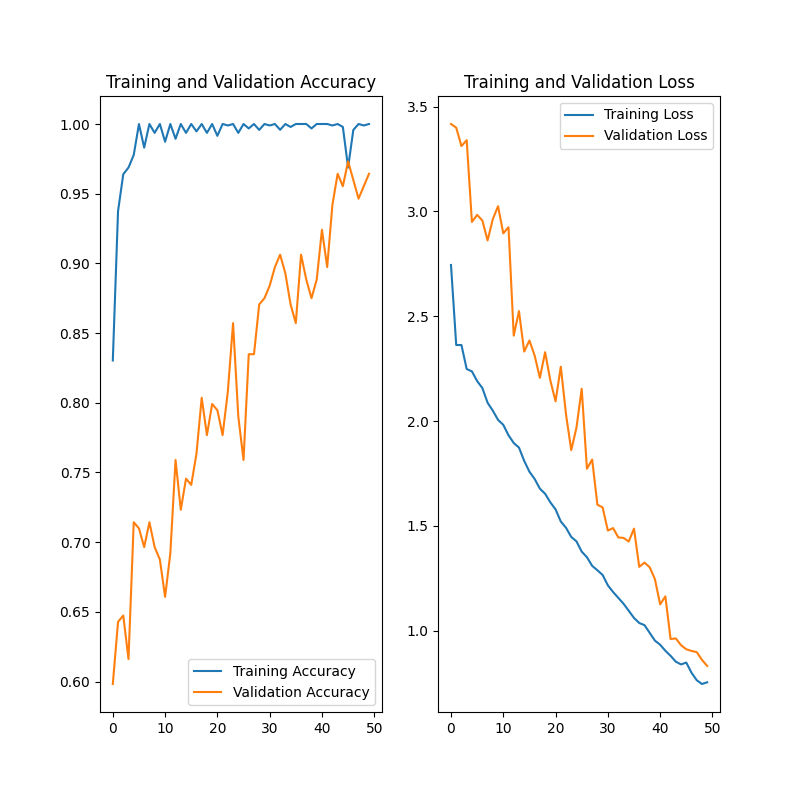
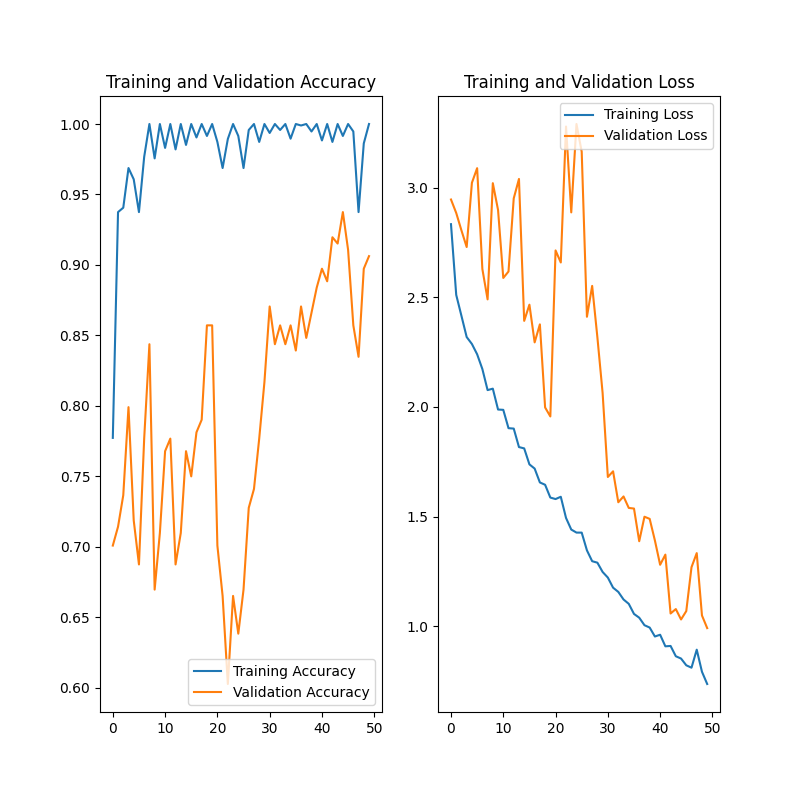
Mejora robustez: Recorte de caras en login, Oclusión en training, JSON persistente

diff --git a/backend/app/main.py b/backend/app/main.py
@@ -5,6 +5,7 @@ import numpy as np
 import cv2
 import tensorflow as tf
 import os
+import json
 
 app = FastAPI()
 
@@ -17,8 +18,11 @@ app.add_middleware(
 )
 
 MODEL_PATH = "/app/modules/models/face_recognition_model.h5"
+CLASSES_PATH = "/app/modules/models/class_indices.json"
+
 model = None
 face_cascade = None
+profile_cascade = None
 
 @app.on_event("startup")
 async def load_resources():
@@ -52,129 +56,144 @@ def predecir_imagen(img):
     class_index = np.argmax(prediction)
     confidence = float(np.max(prediction))
     
-    # Intentar cargar índices dinámicos
-    import json
-    CLASSES_PATH = "/app/modules/models/class_indices.json"
-    classes = []
+    # Valores por defecto
+    nombre_detectado = "Desconocido"
+    umbral_personalizado = 0.80 # Fallback por defecto
     
     if os.path.exists(CLASSES_PATH):
         try:
             with open(CLASSES_PATH, 'r') as f:
-                indices = json.load(f)
-                # indices es {'Alex': 0, 'Oscar': 1, ...} -> invertir a [0: 'Alex', ...]
-                classes_dict = {v: k for k, v in indices.items()}
-                classes = [classes_dict[i] for i in range(len(classes_dict))]
-        except Exception as e:
-            print(f"Error cargando indices: {e}")
-            classes = ["Alex", "Oscar", "Desconocido"]
-    else:
-        classes = ["Alex", "Oscar", "Desconocido"]
-    
-    if not classes:
-         classes = ["Alex", "Oscar", "Desconocido"]
+                config_indices = json.load(f)
+                
+            # El JSON ahora es: {"0": {"name": "Alex", "threshold": 0.70}, ...}
+            key = str(class_index)
+            if key in config_indices:
+                data = config_indices[key]
+                nombre_detectado = data.get("name", "Desconocido")
+                umbral_personalizado = data.get("threshold", 0.80)
+            else:
+                # Fallback para formato antiguo o indices rotos
+                nombre_detectado = "Desconocido"
 
-    # 0=Alex, 1=Oscar, 2=Unknown (Por defecto)
+        except Exception as e:
+            print(f"Error cargando indices json: {e}")
+            nombre_detectado = "Desconocido"
     
-    nombre_detectado = classes[class_index]
+    # 0=Alex, 1=Oscar, 2=Unknown
     
     # Lógica de seguridad estricta:
-    # 1. Si el modelo dice explícitamente "Desconocido" -> Es Desconocido.
-    # 2. Si la confianza es menor a 0.93 (93%) -> Es Desconocido.
-    # 3. Verificamos el margen con la segunda mejor opción para evitar ambigüedad.
-    
     sorted_prediction = np.sort(prediction[0])
     top_score = sorted_prediction[-1]
     second_score = sorted_prediction[-2]
     margin = top_score - second_score
 
-    # Umbrales
-    # Umbrales Estrictos Actualizados
-    # Umbrales Estrictos (Ajustados para usabilidad)
-    # Umbrales (Ajustados para permitir acceso con ~80%)
-    UMBRAL_CONFIANZA = 0.75  
     UMBRAL_MARGEN = 0.15
 
-    if nombre_detectado == "Desconocido":
+    if nombre_detectado == "Unknown" or nombre_detectado == "Desconocido":
         return "Desconocido", confidence
     
-    # Verificación estricta
-    if confidence >= UMBRAL_CONFIANZA and margin >= UMBRAL_MARGEN:
+    # Verificación estricta con UMBRAL DINÁMICO
+    if confidence >= umbral_personalizado and margin >= UMBRAL_MARGEN:
         return nombre_detectado, confidence
     else:
-        # Si no cumple los requisitos estrictos, se marca como Desconocido
         return "Desconocido", confidence
+
+def detect_faces_multiscale(frame):
+    """
+    Función auxiliar para detectar caras usando cascadas múltiples (Frontal + Perfil).
+    Devuelve una lista de recuadros [x, y, w, h] sin solapamientos.
+    """
+    if face_cascade is None or profile_cascade is None:
+        return []
+
+    gray = cv2.cvtColor(frame, cv2.COLOR_BGR2GRAY)
+
+    # Filtros visuales para mejorar detección
+    gray = cv2.GaussianBlur(gray, (5, 5), 0)
+    clahe = cv2.createCLAHE(clipLimit=2.0, tileGridSize=(8,8))
+    gray = clahe.apply(gray)
+
+    # Parametros de detección
+    scale_factor = 1.1
+    min_neighbors = 8 
+    min_size = (60, 60)
+
+    # 1. Frontal
+    faces_frontal = face_cascade.detectMultiScale(gray, scale_factor, min_neighbors, minSize=min_size)
+    
+    # 2. Perfil Izquierdo
+    faces_profile = profile_cascade.detectMultiScale(gray, scale_factor, min_neighbors, minSize=min_size)
+    
+    # 3. Perfil Derecho (Flip)
+    flipped_gray = cv2.flip(gray, 1)
+    faces_profile_flipped = profile_cascade.detectMultiScale(flipped_gray, scale_factor, min_neighbors, minSize=min_size)
+    
+    # Combinar detecciones
+    all_faces = []
+    
+    for (x, y, w, h) in faces_frontal:
+        all_faces.append([x, y, w, h])
+        
+    for (x, y, w, h) in faces_profile:
+        all_faces.append([x, y, w, h])
+        
+    h_img, w_img = gray.shape
+    for (x, y, w, h) in faces_profile_flipped:
+        x_orig = w_img - x - w
+        all_faces.append([x_orig, y, w, h])
+
+    # Non-Maximum Suppression (NMS)
+    if len(all_faces) > 0:
+        all_faces_rects = list(all_faces)
+        all_faces_rects.append(all_faces_rects[0]) # Dummy para groupRectangles
+        rects, weights = cv2.groupRectangles(all_faces_rects, 1, 0.2)
+        return rects
+    else:
+        return []
 
 @app.post("/predict")
 async def predict(file: UploadFile = File(...)):
+    """ Endpoint para Login (una sola imagen) """
     if model is None: return {"error": "Modelo no listo"}
     try:
         contents = await file.read()
         nparr = np.frombuffer(contents, np.uint8)
         img = cv2.imdecode(nparr, cv2.IMREAD_COLOR)
-        nombre, conf = predecir_imagen(img)
-        return {"class": nombre, "person": nombre, "confidence": conf}
+        
+        # 1. Detectar caras primero
+        rects = detect_faces_multiscale(img)
+        
+        if len(rects) > 0:
+            # Seleccionar la cara más grande (mayor área)
+            x, y, w, h = max(rects, key=lambda b: b[2] * b[3])
+            
+            # Recortar ROI
+            if w > 0 and h > 0:
+                roi = img[y:y+h, x:x+w]
+                nombre, conf = predecir_imagen(roi)
+                return {"class": nombre, "person": nombre, "confidence": conf}
+        
+        # Si no se detecta nada, devolvemos Desconocido.
+        # Enviar la imagen completa (fondo + cuerpo) al modelo suele dar resultados basura.
+        return {"class": "Desconocido", "person": "Desconocido", "confidence": 0.0}
+
     except Exception as e:
         return {"error": str(e)}
 
 @app.post("/predict_live")
 async def predict_live(file: UploadFile = File(...)):
+    """ Endpoint para Detección en Vivo (Stream de video) """
     if model is None: return {"error": "Sistema no listo"}
     try:
         contents = await file.read()
         nparr = np.frombuffer(contents, np.uint8)
         frame = cv2.imdecode(nparr, cv2.IMREAD_COLOR)
-        gray = cv2.cvtColor(frame, cv2.COLOR_BGR2GRAY)
 
-        # Filtros visuales
-        gray = cv2.GaussianBlur(gray, (5, 5), 0)
-        clahe = cv2.createCLAHE(clipLimit=2.0, tileGridSize=(8,8))
-        gray = clahe.apply(gray)
-
-        # Multiscale detection parameters
-        scale_factor = 1.1
-        min_neighbors = 8 # Slightly less strict than 12 to catch profiles
-        min_size = (60, 60)
-
-        # 1. Frontal Detection
-        faces_frontal = face_cascade.detectMultiScale(gray, scale_factor, min_neighbors, minSize=min_size)
-        
-        # 2. Profile Detection (Left)
-        faces_profile = profile_cascade.detectMultiScale(gray, scale_factor, min_neighbors, minSize=min_size)
-        
-        # 3. Profile Detection (Right - via Flip)
-        flipped_gray = cv2.flip(gray, 1)
-        faces_profile_flipped = profile_cascade.detectMultiScale(flipped_gray, scale_factor, min_neighbors, minSize=min_size)
-        
-        # Combine detections
-        all_faces = []
-        
-        # Add Frontal
-        for (x, y, w, h) in faces_frontal:
-            all_faces.append([x, y, w, h])
-            
-        # Add Profile
-        for (x, y, w, h) in faces_profile:
-            all_faces.append([x, y, w, h])
-            
-        # Add Flipped Profile (Transform coords back)
-        h_img, w_img = gray.shape
-        for (x, y, w, h) in faces_profile_flipped:
-            x_orig = w_img - x - w
-            all_faces.append([x_orig, y, w, h])
-
-        # Basic Non-Maximum Suppression (NMS) to remove overlapping boxes
-        # OpenCV groupRectangles is robust for this
-        if len(all_faces) > 0:
-            all_faces_rects = list(all_faces)
-            all_faces_rects.append(all_faces_rects[0]) # Dummy for groupRectangles quirks sometimes
-            rects, weights = cv2.groupRectangles(all_faces_rects, 1, 0.2)
-        else:
-            rects = []
+        rects = detect_faces_multiscale(frame)
 
         detections = []
         for (x, y, w, h) in rects:
             roi = frame[y:y+h, x:x+w]
-            # Ensure ROI is valid
             if roi.size == 0: continue
             
             nombre, conf = predecir_imagen(roi)
@@ -185,8 +204,6 @@ async def predict_live(file: UploadFile = File(...)):
             })
             
         return {"faces": detections}
-    except Exception as e:
-        return {"error": str(e)}
     except Exception as e:
         return {"error": str(e)}
 

diff --git a/modules/training/train.py b/modules/training/train.py
@@ -19,13 +19,30 @@ DATA_DIR = os.path.join(BASE_DIR, '../data_collection/dataset_cropped')
 MODEL_SAVE_PATH = os.path.join(BASE_DIR, '../models/face_recognition_model.h5')
 INDICES_SAVE_PATH = os.path.join(BASE_DIR, '../models/class_indices.json')
 
+def add_random_occlusion(image):
+    """
+    Agrega un recuadro negro aleatorio para simular oclusiones (taparse la cara).
+    Se aplica aleatoriamente al 50% de las imágenes.
+    """
+    if np.random.random() > 0.5:
+        return image
+    
+    h, w, _ = image.shape
+    mask_size = np.random.randint(30, 60) # Tamaño del parche (30-60px)
+    
+    top = np.random.randint(0, h - mask_size)
+    left = np.random.randint(0, w - mask_size)
+    
+    image[top:top+mask_size, left:left+mask_size, :] = 0 # Parche negro
+    return image
+
 def train_model():
     if not os.path.exists(DATA_DIR):
         print(f"Data directory {DATA_DIR} not found.")
         return
 
     # Data Augmentation and Loading
-    # Increased augmentation to help with generalization
+    # Increased augmentation + Occlusion to fix "Phone covering face" issues
     train_datagen = ImageDataGenerator(
         rescale=1./255,
         rotation_range=30,
@@ -35,24 +52,30 @@ def train_model():
         zoom_range=0.2,
         horizontal_flip=True,
         fill_mode='nearest',
+        preprocessing_function=add_random_occlusion, # Simula objetos tapando la cara
         validation_split=0.2
     )
 
+    # DEFINIR ORDEN FIJO DE CLASES PARA ROBUSTEZ (Evita cambios de ID)
+    FIXED_CLASSES = ['Alex', 'Oscar', 'Unknown']
+    
     train_generator = train_datagen.flow_from_directory(
         DATA_DIR,
         target_size=(IMG_HEIGHT, IMG_WIDTH),
         batch_size=BATCH_SIZE,
         class_mode='categorical',
+        classes=FIXED_CLASSES, # <--- FORZAR ORDEN
         subset='training'
     )
     
-    print("Class Indices: ", train_generator.class_indices)
+    print("Class Indices (Fixed): ", train_generator.class_indices)
 
     validation_generator = train_datagen.flow_from_directory(
         DATA_DIR,
         target_size=(IMG_HEIGHT, IMG_WIDTH),
         batch_size=BATCH_SIZE,
         class_mode='categorical',
+        classes=FIXED_CLASSES, # <--- FORZAR ORDEN
         subset='validation'
     )
 
@@ -95,11 +118,47 @@ def train_model():
                   loss='categorical_crossentropy',
                   metrics=['accuracy'])
     
-    # Save class indices
+    # Save class indices (Robust Format)
     import json
+    
+    robust_indices = {}
+    old_indices = {}
+
+    # Try to load existing config to preserve thresholds
+    if os.path.exists(INDICES_SAVE_PATH):
+        try:
+            with open(INDICES_SAVE_PATH, 'r') as f:
+                content = json.load(f)
+                # Check if it's the new format
+                if content and isinstance(list(content.values())[0], dict):
+                    old_indices = content
+        except:
+            pass
+
+    for name, index in train_generator.class_indices.items():
+        str_index = str(index)
+        
+        # Default threshold
+        current_threshold = 0.80
+        
+        # Search in old config to preserve custom thresholds
+        for key, val in old_indices.items():
+            if isinstance(val, dict) and val.get("name") == name:
+                current_threshold = val.get("threshold", 0.80)
+                break
+        
+        # Hardcode strictness for Unknown
+        if name == "Unknown": 
+            current_threshold = 1.0
+        
+        robust_indices[str_index] = {
+            "name": name,
+            "threshold": current_threshold
+        }
+
     with open(INDICES_SAVE_PATH, 'w') as f:
-        json.dump(train_generator.class_indices, f)
-    print(f"Class indices saved to {INDICES_SAVE_PATH}")
+        json.dump(robust_indices, f, indent=4)
+    print(f"Class indices saved to {INDICES_SAVE_PATH} (Robust Format)")
 
     model.summary()
 
